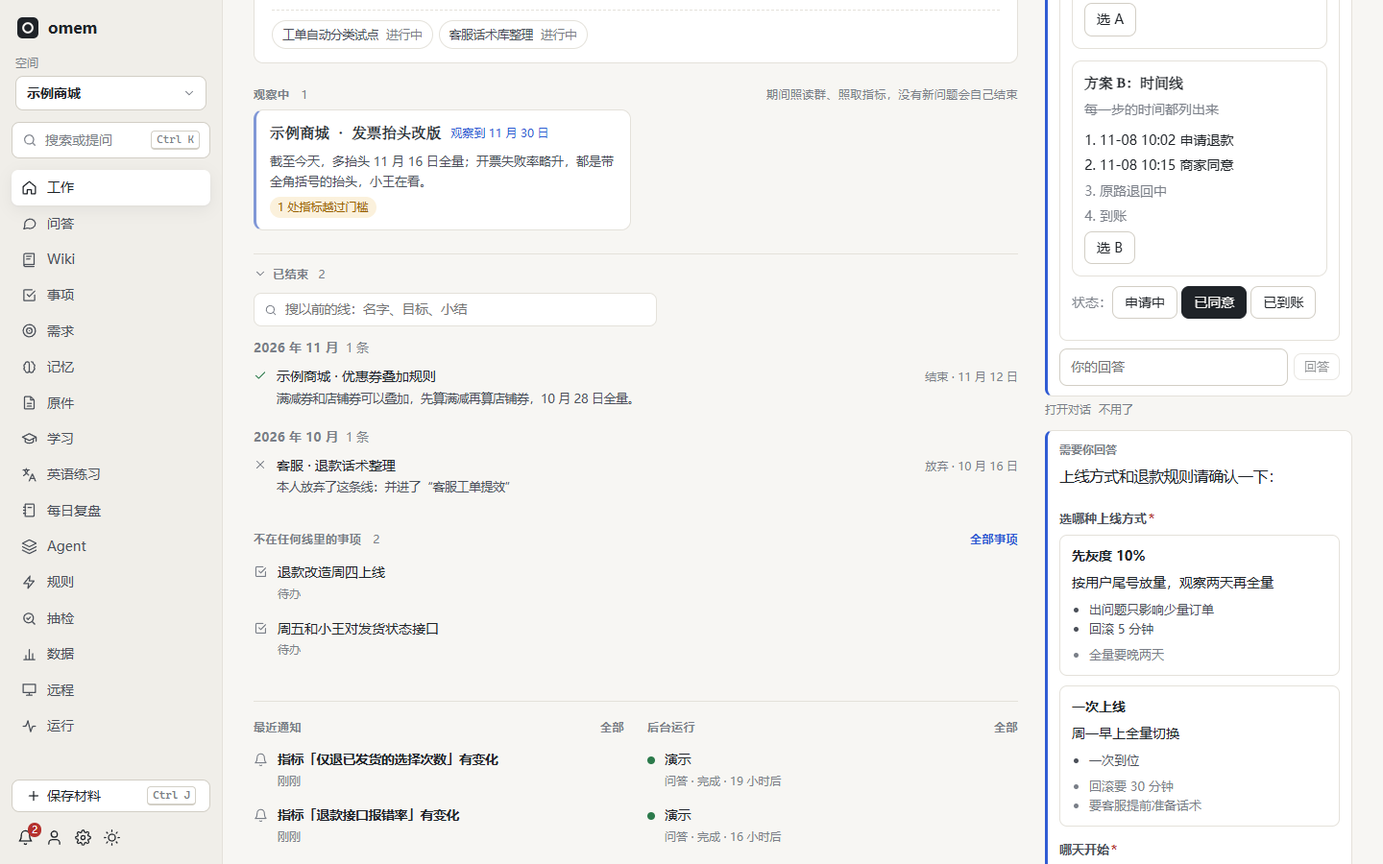
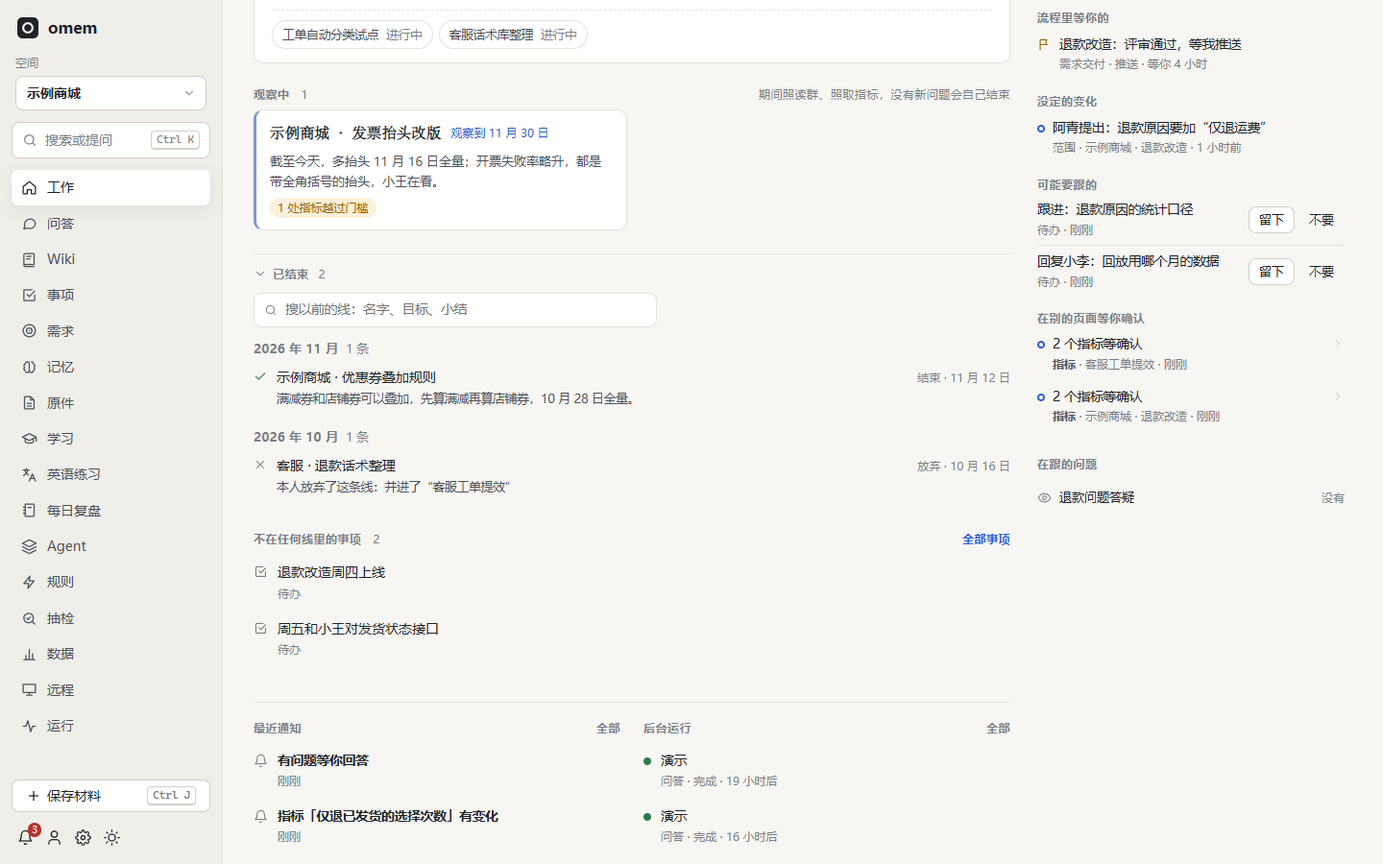
“今天”的演示数据、截图和文档
- 演示库发一张“今天”（两条线的下一步、一条提议、两件候选、一件自动收尾的），新截图 today-card；右栏和候选变了，重拍 work-overview、work-timeline、work-ended、item-external。
- “等你处理”最后一句另起一段，不再接在列表最后一条后面。
- 文档：work-lines 加“早上一张‘今天’”一节并改各处讲卡片的说法，items 的每日清点、lark-bot 的卡片表、README、status、acceptance（T1–T10）、next 方向一第二期、变更记录；角色 work-state、brief 和看线任务、submit_line_state 的说明改成新的说法。

diff --git a/scripts/doc-screens.ts b/scripts/doc-screens.ts
@@ -36,6 +36,7 @@ import { addItemEvent, upsertItem } from "../src/items/store.ts";
 import { addMaterials } from "../src/items/materials.ts";
 import type { ChangeType } from "../src/items/changes.ts";
 import { createLine } from "../src/items/lines.ts";
+import { sendToday } from "../src/items/today.ts";
 import { itemContext, saveContext } from "../src/channels/listen.ts";
 import { setParent } from "../src/items/parent.ts";
 import { parseFlow } from "../src/flows/definitions.ts";
@@ -1089,6 +1090,17 @@ const xiaozhouToken = createApiToken(app, xiaozhou.id, "演示");
 const xiaolinToken = createApiToken(app, xiaolin.id, "演示");
 const xiaowuToken = createApiToken(app, xiaowu.id, "演示");
 
+// ---- 今天 (items/today.ts): this morning's card, put together from all of the above ----------------
+// Last night's work-state proposed one line; the assistant made a second candidate; one item expired.
+const nightRun = createRun(app, { kind: "work-state", title: "整理近况" });
+setRunOutput(app, nightRun.id, { lineProposals: [{ key: "p0", name: "示例商城 · 售后时效看板", goal: "把退款从申请到到账的每一段时长做成看板，找出最慢的一段", items: [], sources: [] }] });
+run(app.db, "update runs set status = 'done' where id = ?", nightRun.id);
+const cand2 = upsertItem(app, undefined, { spaceId: "shop", kind: "todo", title: "回复小李：回放用哪个月的数据", priority: 3 }, "agent");
+run(app.db, "update items set status = 'candidate' where id = ?", cand2.id);
+const stale = upsertItem(app, undefined, { spaceId: "shop", kind: "todo", title: "整理退款页的埋点清单", priority: 3 }, "user");
+upsertItem(app, stale.id, { status: "expired", note: "自动过期：14 天没有新进展（待办的默认期限），最后一次进展在 11 月 3 日。有新进展会重新打开，也可以在事项页恢复。" }, "agent");
+await sendToday(app);
+
 // ---- capture ----------------------------------------------------------------------------------
 const server = await startServer(app, { port: Number(process.env.DEMO_PORT ?? 0), host: "127.0.0.1", quiet: true });
 const url = app.baseUrl;
@@ -1125,6 +1137,8 @@ const shots: { name: string; path: string; width?: number; dark?: boolean; space
   // The start page (工作): the two lines, then 按时间, then one line's own page with 问这条线 open.
   { name: "work-overview", path: "/" },
   { name: "work-timeline", path: "/?view=time" },
+  // 今天: this morning's card opened from 需要你处理, by sections, each choice to pick.
+  { name: "today-card", path: "/", prepare: async (p) => { await p.locator("#work-waiting .li", { hasText: "今天 ·" }).first().click(); await p.waitForTimeout(800); } },
   // Below the lines: the one being watched, then the lines that ended, by month.
   { name: "work-ended", path: "/", init: { "omem.workEnded": "1" }, prepare: async (p) => {
     await p.locator(".watching").evaluate((el) => {

diff --git a/src/channels/listen-assist.ts b/src/channels/listen-assist.ts
@@ -172,7 +172,7 @@ export async function lineStateTask(app: App, c: ListenContext, item: Item, mode
     "1. now：一句“截至今天……”，120 字以内，说到哪了、卡在哪、离截止还有多远。只写有依据的事实。",
     "2. people：这条线上的人和各自做什么（负责后端、提需求、测试、评审……），最多 8 个，不写本人。",
     "3. weeks：本周·至今N天、上周、2周前、3周前，每周一句；那周没动静写“暂无进展”。",
-    `4. next：最多三条具体的下一步，每条写清做什么、为什么现在做（why）、依据（refs：原件引用、事项 id、阶段、指标），kind 选 read / test / code / ask / data。本人会在每天的下一步卡片上点“就这么做”或“不用”，点了就有助手去做，所以要能直接动手，不写“关注一下”“推进一下”。`,
+    `4. next：最多三条具体的下一步，每条写清做什么、为什么现在做（why）、依据（refs：原件引用、事项 id、阶段、指标），kind 选 read / test / code / ask / data。本人会在每天早上的“今天”卡片上点“就这么做”或“不用”，点了就有助手去做，所以要能直接动手，不写“关注一下”“推进一下”。`,
     [
       "5. phase（可选，没把握就不填）：这条线到了哪一段。只按材料里的事实判断：群里或需求系统里写了“已发布”“已全量”“上线完成”，流程走完了，下面的工作项都结了，本人说过做完了。",
       `   - ${watching ? "还在观察：不用填；观察期里又出了要返工的大问题、回滚了，才填 active" : "还在做：不用填"}；`,

diff --git a/src/agents/tools.ts b/src/agents/tools.ts
@@ -2439,7 +2439,7 @@ def({
   },
 });
 def({
-  name: "submit_line_state", description: "交这次看一条工作线（或一件顶层事项）的结果：一句“截至今天……”（now）、相关的人和各自的角色、最近几周各一句、最多三条下一步，可选的 phase（判断它还在做、做完了进入观察、还是确实结束了，带依据和把握）。宿主存到这条线上，下一步放进本人每天的下一步卡片，按把握决定观察或结束；不用再通知本人。线结束后的收尾那一轮交 summary（收尾小结）。只给看工作线现状的运行交结果。",
+  name: "submit_line_state", description: "交这次看一条工作线（或一件顶层事项）的结果：一句“截至今天……”（now）、相关的人和各自的角色、最近几周各一句、最多三条下一步，可选的 phase（判断它还在做、做完了进入观察、还是确实结束了，带依据和把握）。宿主存到这条线上，下一步放进本人每天早上的“今天”卡片，按把握决定观察或结束；不用再通知本人。线结束后的收尾那一轮交 summary（收尾小结）。只给看工作线现状的运行交结果。",
   write: true, schema: lineStateSchema,
   handler: async (ctx, a) => {
     if (!ctx.runId) throw new HttpError(403, "只有看工作线现状的运行能交");

diff --git a/src/items/lines.ts b/src/items/lines.ts
@@ -320,7 +320,7 @@ export async function proposeLines(app: App, runId: string, input: z.input<typeo
     const at = pending.findIndex((x) => norm(x.name) === norm(p.name));
     const entry: Proposal = { key: at >= 0 ? pending[at].key : `p${pending.length + i}`, name: p.name, goal: p.goal, items, sources };
     if (at >= 0) pending[at] = entry; else pending.push(entry);
-    out.push(`「${p.name}」是新的：整理结束后问本人要不要建（${items.length} 件事项，${sources.length} 份材料）`);
+    out.push(`「${p.name}」是新的：之后问本人要不要建（${items.length} 件事项，${sources.length} 份材料）`);
   }
   setRunOutput(app, runId, { lineProposals: pending.slice(0, 8) });
   return out.join("\n");

diff --git a/src/items/today.ts b/src/items/today.ts
@@ -66,7 +66,8 @@ function waitingPart(app: App, pending: PendingAction[], skipAsks: Set<string>) 
   return [
     `**等你处理（${total}）**：${[...counts].map(([k, n]) => `${k} ${n}`).join("、")}`,
     ...top.map((p) => `- ${p.lineTitle ? `「${oneLine(p.lineTitle, 20)}」` : ""}${oneLine(p.title, 60)}${p.deadline ? `（${md(app, p.deadline)}前）` : ""}`),
-    `${list.length > top.length ? `其余 ${list.length - top.length} 条` : "都"}${link(app, "在工作页处理", "#/work")}。`,
+    // Its own paragraph: right under the list it would read as part of the last line.
+    `\n${list.length > top.length ? "其余的" : "都"}${link(app, "在工作页处理", "#/work")}，各有各的卡片。`,
   ].join("\n");
 }
 

diff --git a/site/features/work-lines.md b/site/features/work-lines.md
@@ -78,16 +78,31 @@
 
 每条有关注的线，有变化或三天内要截止时，助手每天看一次：读线和下面各项、最近的变化、材料和关注的会话，写一句“截至今天”、这条线上有谁、各做什么、最近四周各一句，再给最多三条下一步，每条带依据。和上次比没有新东西就不写。
 
-下一步不单独发通知。每天一张卡片把各条线新的下一步放在一起（时间是设置里“不急的通知什么时候一起发”的第一个时间，没设就是 10:00）：
+下一步不单独发通知，放在每天早上那张“今天”里（见下一节），每条两个选择：
 
 - **就这么做**：助手在这条线上起一轮去做（读材料、按需求点测、看指标、起草要问别人的话；要改代码的按流程关卡或交办走）。它不发消息、不拉人、不建规则，做完把结论放进这条线的会话，并告诉你。
 - **不用**：记下来，下次看这条线时不再提类似的。
 
 工作页上的虚线点和线页面的“下一步”是同一批，在哪里点都一样。
 
+## 早上一张“今天”
+
+各条线的下一步、等你处理的、夜里整理出来的提议，每天早上合成一张卡片发给你（默认 09:30，飞书私聊里一张，网页上在工作页右栏“需要你处理”里，种类写“今天”）。卡片按这几段排，哪段没有内容就不出现，整张都没有就不发：
+
+<Shot src="today-card" caption="工作页右栏点开“今天”：各条线的现状和新的下一步，夜里提议的线、要不要跟的候选、自动收尾的" />
+
+1. **等你处理**：现在等你的按种类数一下，列最要紧的三条，点进工作页去处理。这一段只是提醒，各自有各自的卡片。
+2. **各条线**：每条进行中的线一小段，“截至今天”一句，三天内到期的标出来；上一张卡之后新出的下一步逐条“就这么做 / 不用”。观察中的线只在有新的下一步时出现。
+3. **夜里整理出来的**：提议的新工作线（建 / 不用 / 并进某条线）、助手自己建的候选事项（留下 / 不要）、自动收尾的和明天过期的（恢复 / 保留，不选就是不动）、自己结束了的线（恢复）、夜里问的“这条线要结束吗”、昨晚复盘要你定的建议。
+4. **不急的通知**：攒着几条，一句话带过；它们照旧在设好的时间一起发。
+
+选几项就提交几项，没选的照旧：下一步还在各条线上，候选和夜里的询问还在“需要你处理”里。在别处已经点过的，提交时跳过。每段最多列几条，多的写“还有 N 条”。
+
+时间和开关在 设置 → 通知与打扰 → 早上一张“今天”。到点时还在免打扰里，就等免打扰结束再发。关掉以后，下一步、事项清点、每晚的工作线提议各自按原来的时间单独发卡片。
+
 ## 工作线从哪来
 
-- **每晚提议**：每晚整理近况时，助手看你这几周在推进什么。对得上已有线的，补上材料、把没挂的事项挂上去；新的，一晚一张卡问你“要建成工作线吗”，每条选“建”“不用”或“并进”某条已有的线。说“不用”的同名线两周内不再问。
+- **每晚提议**：每晚整理近况时，助手看你这几周在推进什么。对得上已有线的，补上材料、把没挂的事项挂上去；新的，第二天早上在“今天”里问你“要建成工作线吗”，每条选“建”“不用”或“并进”某条已有的线。说“不用”的同名线两周内不再问。
 - **自己建**：工作页右上点“＋ 工作线”，写名字和一句目标。自己建的线点一次“更新”就会建好关注，之后每天也会看。
 - **挂事项**：在线的“工作项”标签里挑一件挂进来，或在事项的“编辑”里改“属于”。助手记事项时也会按你说的挂到线下；工作线只在你这一轮让它建时才建，后台运行不会自己建。
 
@@ -106,17 +121,17 @@
 
 观察期默认 14 天（设置里 `workLines.watchDays`），助手觉得要多看一阵可以给更长的，最多 60 天。观察期里关注照读它的群、指标照取，每天的现状照写，只是关注只管报错、用户反馈和数据异常，普通讨论不处理，下一步也只提上线后的事：看数据、查上线后的问题、回答还没结的疑问。工作页上它从大卡片移到下面“观察中”一组，卡片写观察到哪天、现状一句，以及还挡着它的东西（几处指标越过门槛、几个问题没结）。
 
-**观察期满，多半自己结束。** 期满时这些都没有，它就结束：下面没结的事、这一周里没定的下一步、这一周里越过门槛的指标、这三天群里或在跟的问题里的新变化、等你确认的事、在走的流程。结束不单独通知你，第二天的事项清点里有一行“工作线已结束”，旁边是“恢复”。
+**观察期满，多半自己结束。** 期满时这些都没有，它就结束：下面没结的事、这一周里没定的下一步、这一周里越过门槛的指标、这三天群里或在跟的问题里的新变化、等你确认的事、在走的流程。结束不单独通知你，第二天早上的“今天”里有一行“自己结束了的工作线”，可以选“恢复”。
 
 - 期满但群里还在说、问题没结、指标还在跳：悄悄再看一周，时间线上记一笔，不问你。
-- 只有真拿不准时才问你一张卡：比如观察超过两倍时间，下面还有一件开着却一周没人动；或者助手觉得做完了但把握不大，又有东西挡着。卡上是“结束”“再看一周”“还没完”。同一条线两周最多问一次，一天最多问两条线。
+- 只有真拿不准时才问你一张卡：比如观察超过两倍时间，下面还有一件开着却一周没人动；或者助手觉得做完了但把握不大，又有东西挡着。卡上是“结束”“再看一周”“还没完”。同一条线两周最多问一次，一天最多问两条线。夜里（免打扰时段）想问的，等早上并进“今天”；白天的单独问。
 - 你点过“恢复”“还没完”的线，两周内不再自己进观察、不再自己结束，也不再问。
 
 **结束的时候**（自己结束、你点结束、或在“编辑”里把状态改成完成都一样）：关注停下并写明“这条线结束了”，线和下面各项的指标停止采集，没定的下一步作废，然后助手写一段收尾小结：做成了什么、关键的决定、上线后数字怎么样、还剩什么。小结放在这条线页面的最上面，时间线上那条“结束：…”点开也是它，周五的周报会用到。放弃的线记成取消，同样停下关注和指标。
 
 在线的页面点“收尾”可以自己选：先观察几天、现在结束、放弃。下面还有没结的事时，会先问“一起结束 N 件？”。
 
-**重新打开**：清点卡片上的“恢复”或线的页面上的“重新打开”，线回到进行中，关注和指标照原样接着来。
+**重新打开**：“今天”里的“恢复”或线的页面上的“重新打开”，线回到进行中，关注和指标照原样接着来。
 
 **它会学。** 你每次的取舍（自动结束后恢复了、自己结束或放弃、再看一周、还没完）都记下来，助手下次判断一条线是不是做完了，会先看你以前怎么定的：你常恢复的那类，它更保守。
 

diff --git a/docs/v2/status.md b/docs/v2/status.md
@@ -275,6 +275,7 @@
 | 工作线的现状（原“事情型关注主动推进”，`src/channels/listen-assist.ts`）：参数 `assist`（事项默认 suggest，地方型不看），心跳里只看顶层事项的关注（挂在线下的跟着线看），线或下面任一项有变化、或三天内截止、离上次 20 小时以上时起一次 `kind = agent` 的运行（每天最多 8 次，`input.listenAssist` + `input.lineState`，禁编码、发消息、规则、关注和 notify，suggest 还禁 metric_*）。任务带线和下面各项的状态与流程阶段、`lineTimeline` 最近 20 条、材料、指标、关注的会话摘要、上次的现状、本人说“不用”的下一步；用角色工具 `submit_line_state` 交一句“截至今天”（120 字内）、人和角色（≤8）、最近四周各一句、最多三条下一步，宿主存进 `items.now`，没开始的旧下一步变 `expired`，不发通知；和上次比没新东西就 stay_quiet。`act` 先做只读的事（挂材料、观测计划、指标）。不再写 `关注/<名>/推进.md`（2026-11-20） | 已实现，测试覆盖（`test/listen-assist.test.ts`、`test/work-lines.test.ts`），真实模型待验 | `src/channels/listen-assist.ts`、`src/items/lines.ts` |
 | 每天的下一步卡片（`src/items/lines.ts`）：表 `item_next`（进拉取）；心跳里每天到 `notify.laterTimes` 最早的时间（没设就 10:00）发一张 ask（宿主处理器 `line-next`，`runId` 为空），列上一张以来新的、还没定的下一步，按线分组，每条“就这么做 / 不用”（多条是表单）。就这么做：状态 doing，起一次 `agent` 运行（assistant、线的空间、lane `line-next:<线>`，任务是这一步、为什么、依据、线的现状；禁 lark_send / lark_card / lark_write / lark_invite / save_rule / set_chat_watch / notify，不是 code 的还禁编码）；运行结束后标 done，结论进线的关注会话并告诉本人一次。不用：declined，下次看这条线时读到。网页 `PUT /api/item-next/:id` 一样，卡片上的都处理完了卡片就撤回 | 已实现（2026-11-20），`test/work-lines.test.ts`；飞书表单卡片没真机验 | `src/items/lines.ts`、`src/agents/jobs.ts` |
 | 每晚提议工作线（`src/agents/work-state-job.ts`、`roles/work-state.md`）：work-state 的任务多“已有的工作线”，角色工具 `propose_lines`（≤8 条：名字、目标、事项、群、文档）。同名或列了它下面事项的就是已有的线：只补没有的材料（`added_by agent`）、把没挂的事项挂上去；新的在运行结束后一晚一张卡（处理器 `line-propose`，每条“建 / 不用 / 并进「某条线」”）。建：线（`kind = line`，标题、目标、材料）、事项挂上、只读且推进 suggest 的关注；不用：同名两周内不再问（kv） | 已实现（2026-11-20），`test/work-lines.test.ts`；真实模型待验 | `src/items/lines.ts`、`src/agents/work-state-job.ts` |
+| 早上一张“今天”（`src/items/today.ts`，`notify.today` 默认开、09:30）：巡检到点由宿主拼一个 ask（处理器 `today`，按日期一天一张），四段：等你处理（`pendingActions` 按种类计数、列最要紧三条，不带按钮）、各条线（`now.text`、三天内到期、上一张卡之后的下一步 `newNextSteps`，观察中的线只在有新下一步时出现）、夜里整理出来的（`heldProposals` 读 work-state 运行输出里的提议、`pendingCandidates`、`digestFor` 的自动收尾 / 明天过期 / 自己结束的线、夜里问的 `line-end`、昨晚复盘建议）、不急的通知（只计数）；每段有上限，空段不出现，只有不急的通知时不发。提交时每项交给原来的处理（`decideNext`、`decideProposal`、`decideCandidate`、`keepItem`、`line-end` 那条 ask 自己的回答、`resolveEffect`），别处定过的跳过，可只答一部分。开着时巡检不发 `line-next` 卡、`item-digest` 不发本人的清点卡（成员照旧）、work-state 不发 `line-propose` 卡；免打扰里问的 `line-end` 延到“今天”并进这张（`today-time.ts holdForToday`），白天的照旧单独发。关掉时各卡行为不变。表单字段可带 `group`（飞书卡片和网页都按组显示）；设置 → 通知与打扰 一行开关和时间 | 已实现（2026-11-21），`test/today.test.ts`；飞书只用假客户端测过 | `src/items/today.ts`、`src/items/today-time.ts`、`web/src/components/UiFields.vue`、`NotificationSettings.vue` |
 | 待处理清单（`src/items/pending.ts`）：登录用户从 `GET /api/pending` 取自己的提问、关卡、变化、候选、近两天的回复草稿、指标、档案、技能和跨空间更新。`GET /api/work` 返回同一份 `pending`，`waiting.total` 是合并后的条目数。 | 已实现 | `GET /api/pending` |
 | 工作页接口（`src/items/work-http.ts`，都只给本人）：`GET /api/work`（各条线：现状、变化数和今天几条、最近 6 条变化、没定的下一步、下面各项和流程阶段、关注；不在线里的顶层事项；需要本人处理的合在一处：ask、等本人的关卡、候选、没定的变化、待发草稿数和去重后的总数；地方型关注和没结的问题数）、`GET /api/work/activities`（按天的变化和计数，可按类型、来源、线筛）、`GET /api/work/:id`（上层、现状、下一步、下面各项、时间线 200 条、群的消息数和 14 天每天的数、材料、关注、流程）、`PUT /api/items/:id/parent`、`POST /api/work/:id/refresh`（没有关注就建一个只读的，马上看一次）、`PUT /api/item-next/:id`、`PUT /api/item-changes/:id/noise`（“对我没用”，时间线上不再列） | 已实现（2026-11-20），`test/work-lines.test.ts`；网页见下一行 | `src/items/work-http.ts`、`src/auth/routes.ts` |
 | 工作页（网页，`web/src/views/Work.vue`、`WorkDetail.vue`）：首页 `#/` 换成“本月在推进”，按工作线（每条线一张卡：现状一句、最近 6 条变化的点线时间线，最新的实心，末尾是虚线的下一步；下面各项的阶段小条）、按时间（变化按天，按种类和来源筛，右侧一根一天的柱图点一根只看那天）、按阶段（流程看板 `components/FlowBoard.vue`）；右栏“需要你处理”（问题、关卡、没定的变化、候选、草稿，共 N 条）、在跟的问题、问点什么；原首页的最近通知和后台运行收在下方。`#/work/:id`：标题和目标、阶段条和等你的那一段（`FlowWaiting`）、“最近忙这些”四周各一句、下一步（就这么做 / 不用）、标签页（时间线按周、工作项挂进 / 移出 / 新建、流程逐段写出（原流程页嵌入）、人和群（角色、群 14 天的消息走势和不再关注 / 再关注一个群、材料）、关注设置（嵌入关注页的设置和经验案例，11-21 起）、数据）、右侧“问这条线”（接到线的关注会话）。点变化或下一步从右侧打开（对我没用、就这么做 / 不用）。侧栏“今日”改名“工作”，“流程”打开按阶段（成员仍用 `/board`）；本人打开 `/items/:id/flow` 转到工作项页的流程；事项页改叫“全部事项”，工作线单列 | 已实现（2026-11-20），`test/work-web.test.ts`；1440 / 390、浅色 / 深色截图检查过 | `web/src/views/Work.vue`、`web/src/views/WorkDetail.vue`、`web/src/lib/work.ts` |

diff --git a/.repo-review/wiki/reference/changes-since-2026-10-13.md b/.repo-review/wiki/reference/changes-since-2026-10-13.md
@@ -19,6 +19,15 @@ updated: 2026-11-21
 
 这个文件超过四百行左右时，把最早的一批整节移到归档里（没有合适的就新建一个按时间段命名的文件，并在上面加一行）。
 
+## 早上一张“今天”：下一步、清点、夜里的提议合成一张（11-21）
+
+- `src/items/today.ts`：宿主拼一个 ask（处理器 `today`），不起模型。四段：等你处理（`pendingActions` 按种类计数、列三条，不带按钮）、各条线（`now.text`、三天内到期、`lines.ts newNextSteps` 的下一步）、夜里整理出来的（`heldProposals` 读 work-state 运行输出里的 `lineProposals`、`pendingCandidates`、`digestFor`、夜里问的 `line-end`、`replayDigest` 的建议）、不急的通知（只计数）。字段 id 带前缀（`n_` 下一步、`p_` 提议、`c_` 候选、`r_` 恢复、`k_` 保留、`e_` 线要不要结束、`x_` 复盘），每段有上限（`TODAY_MAX`），表单最多 30 项。
+- 提交时逐项交给原来的处理：`decideNext`、`decideProposal`（从 `line-propose` 处理器里抽出来，两处共用）、`decideCandidate`、`keepItem`、`answerAsk` 回答那条 `line-end` 自己的 ask、`resolveEffect`；状态已经变了的跳过；结果写进 ask 的 `result`。新的一张发出时，前一天没答的“今天”取消。
+- 开关 `notify.today`（`{ enabled, at }`，默认开、09:30，`config.ts`）。入口：巡检调 `today.ts morningDue`（开着走 `todayDue`，按日期记 kv `today_card_day`；关着走原来的 `lineNextDue`）；`item-digest` 定时任务走 `jobs.ts itemDigestDue`（开着时 `sendItemDigests(app, { except: [OWNER] })`，本人的复盘段也不在这里消费）；work-state 结束调 `proposalsDue`（开着不发 `linesCard`，提议留在运行输出里，kv `line_propose_run` 记已经问过的那次运行）。
+- `src/items/today-time.ts holdForToday`：免打扰里问的 `line-end`，飞书出口本来会延到免打扰结束（`deferredUntil`），开着“今天”时改延到“今天”的时间并标 `forToday`；“今天”带上它后去掉 `deferredUntil`、记 `inToday`，没答的只留在网页的待处理里。白天问的照旧。
+- 表单分组：`UiField` 多一个只给宿主用的 `group`（`ui-blocks.ts` 的类型，不进给 Agent 的 schema；`packages/plugin-sdk/blocks.ts` 同步）。`lark-asks.ts cardFields` 把它带到 `CardField.group`，`lark-send.ts formFields` 在组变化处插一行标题、分组时不编号；`web/src/components/UiFields.vue` 同样插标题。
+- 网页：`WorkWaiting.vue` 与 `pending.ts` 的种类加“今天”；设置 → 通知与打扰（`NotificationSettings.vue`）加一行开关和时间。演示库（`scripts/doc-screens.ts`）发一张“今天”，新截图 `today-card`；`work-overview`、`work-timeline`、`work-ended`、`item-external` 因右栏和候选变了重拍。测试 `test/today.test.ts`。
+
 ## 管成员的人进得了成员页；成员直接打开深链接不再被送回问答（11-21）
 
 - `web/src/App.vue`：判断“这一页他能不能开”要等路由把打开时的地址解析完（`router.isReady()`）。页面按需加载，解析完之前路径还读作 `/`：成员从通知或卡片里的链接直接打开某一页时，会被当成开了没有权限的首页，送回问答。

diff --git a/site/features/items.md b/site/features/items.md
@@ -44,7 +44,7 @@
 - 群聊和文档整理时，和你有关的承诺、请求、待决定的事会被提出来。
 - 也可以在“事项”页右上角“新建事项”写一句话，交给助理理解时间和对象。
 
-你没开口、助手自己从材料里看出来的事（整理群聊、巡检、简报、有人找你、规则），要先说清你为什么会要它：你自己说过的话、你让它盯着的「关注」，或你近况里正在推进的哪条线。说不清的不建；拿不准的先放进“可能要跟的”：不提醒、不进四栏，每天 9:30 的清点卡和事项页顶上逐件给你点“留下”或“不要”，三天不答就放下。你每次留下或不要都会记下来，助手下次建事项前会先看你以前怎么选的。判断用的门槛在 设置 → 后端与模型 → 决策 的“自动建事项”。
+你没开口、助手自己从材料里看出来的事（整理群聊、巡检、简报、有人找你、规则），要先说清你为什么会要它：你自己说过的话、你让它盯着的「关注」，或你近况里正在推进的哪条线。说不清的不建；拿不准的先放进“可能要跟的”：不提醒、不进四栏，每天早上的“今天”和事项页顶上逐件给你点“留下”或“不要”，三天不答就放下。你每次留下或不要都会记下来，助手下次建事项前会先看你以前怎么选的。判断用的门槛在 设置 → 后端与模型 → 决策 的“自动建事项”。
 
 ## 从别的平台同步
 
@@ -68,7 +68,7 @@ issue、需求、缺陷这类在别的平台上的条目，可以同步成事项
 - **时间线**：每次变化（改期、完成、新消息）都记一条，带来源。通知只带这次变化的来源，错的来源可以撤回并留历史。
 - **期限**：待办 14 天、待决定和关注 7 天、等待回复 14 天没有新进展就自动“过期”（不算完成，有新进展会重新打开）。期限在 设置 → 推进工作 → 事项自动收尾 里改。工作线（以及走过流程、挂着别的事项、开着关注的事项）不按期限过期，而是先观察、再自己结束，见 [工作线](./work-lines)。
 - **自己判断办没办**：你在来源群里回过话、回了表情的，由助理判断是否已经办了并关掉；回 DONE 表情直接关。
-- **每日清点**：每天一张卡片，列出自动收尾的（包括观察期满自己结束的工作线）和明天过期的，要留下的点“保留”或“恢复”；助手自己建、等你定的候选也在这张卡片上。
+- **每日清点**：自动收尾的（包括观察期满自己结束的工作线）和明天过期的，要留下的选“保留”或“恢复”；助手自己建、等你定的候选也在这里。开着早上一张“今天”（默认开，见 [工作线](./work-lines#早上一张-今天)）时，它是那张卡片里的一段；关掉后每天 9:30 单独发一张清点卡片。
 - **唤醒**：说“半小时后看看 CI 结果”“小王发了发布单就检查回滚方案”，它设一个定时或等消息的唤醒，到时候在原会话里接着做，没变化不打扰你。
 
 ## 拿不准先问你

diff --git a/site/features/lark-groups.md b/site/features/lark-groups.md
@@ -57,7 +57,7 @@
 
 ### 事项和会议
 
-- 工作线的关注默认会主动推进（可以关掉，或改成“能做的先做”）：大约每天一次、线或下面的事项有变化或快到截止时，助理看一遍这条线，写一句“截至今天”的现状和最多三条下一步，见 [工作线](./work-lines)。它会看还没挂上的文档、群和代码，进度对不对得上截止时间，按流程阶段该写的测试、该开始的编码、等着的评审，有没有观测计划、指标有没有异常。下一步每条带依据，各条线的放在每天一张卡片上；“能做的先做”时只读的事（挂材料、写观测计划和定义指标、列测试清单）直接做完。它不会自己开始编码、在群里发消息或改事项状态。
+- 工作线的关注默认会主动推进（可以关掉，或改成“能做的先做”）：大约每天一次、线或下面的事项有变化或快到截止时，助理看一遍这条线，写一句“截至今天”的现状和最多三条下一步，见 [工作线](./work-lines)。它会看还没挂上的文档、群和代码，进度对不对得上截止时间，按流程阶段该写的测试、该开始的编码、等着的评审，有没有观测计划、指标有没有异常。下一步每条带依据，各条线的放在每天早上的“今天”里；“能做的先做”时只读的事（挂材料、写观测计划和定义指标、列测试清单）直接做完。它不会自己开始编码、在群里发消息或改事项状态。
 - 事项也能关注：关注建在 [工作线](./work-lines) 或没挂在线下的事项上，群是它和下面各项的群合在一起；下面的需求、缺陷不单独建关注。开始流程时自动关注这条线的群（只看，记“变了什么”）；没走流程的事项在事项页打开“关注这件事”。线的关注在线页面里看和改：群在“人和群”标签里，每个群可以点“不再关注”，下面“再关注一个群…”从采集过的群里搜着加；说明和设置在“关注设置”标签里。你在这里加的、拿掉的群会一直算数，不会因为事项的材料变了又改回去。打开回复后，它在这些群里回答和这件事有关的问题，比整个群的关注优先回。
 - 线进了观察期（已经上线，见 [工作线](./work-lines) 的“什么时候结束”）：它的关注照读这些群，只是助手只关心报错、用户反馈和数据异常，普通讨论不处理；关注页上方也写着这句。设置不变。
 - 关注的群里有人发起会议，或你自己入会时，助理发一张只有你看得到的卡片问要不要进会旁听（可以设成直接进或不管）。进会后它带着这个关注的说明和经验听，记下的内容和会后小结也写回这个关注；“这个会以后不用问”会记住。
